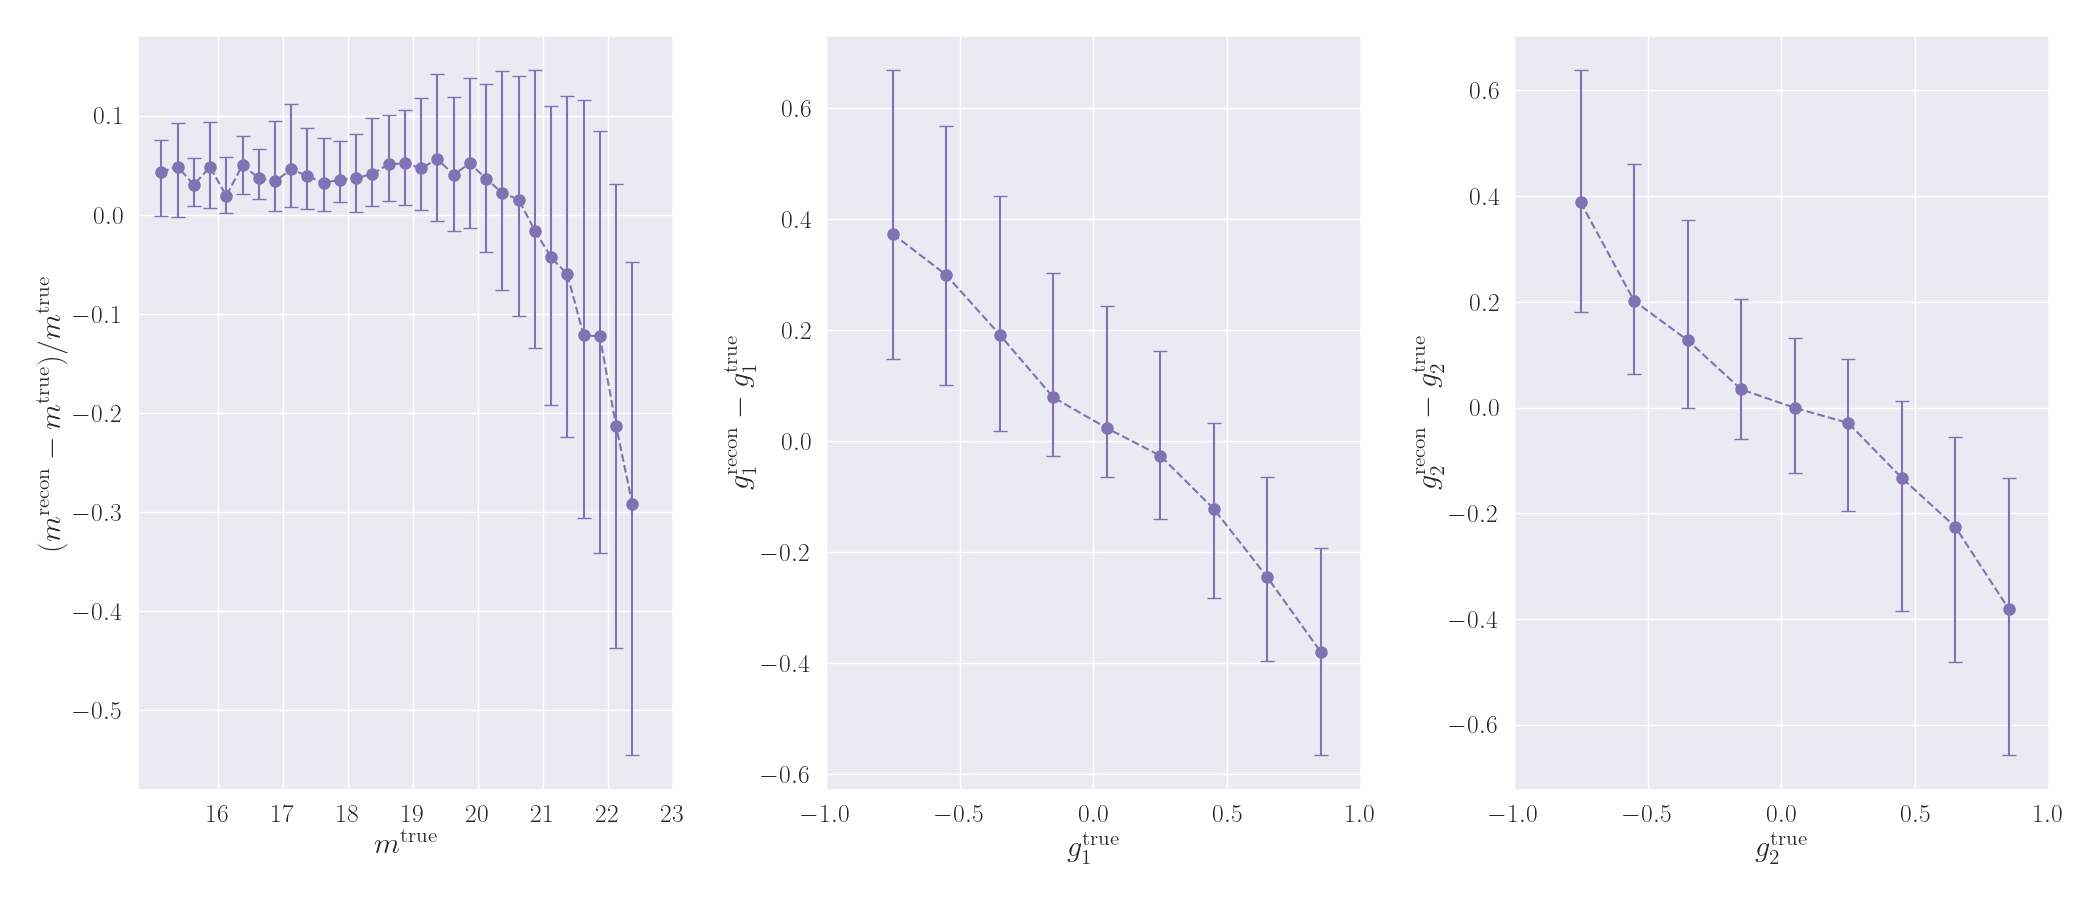
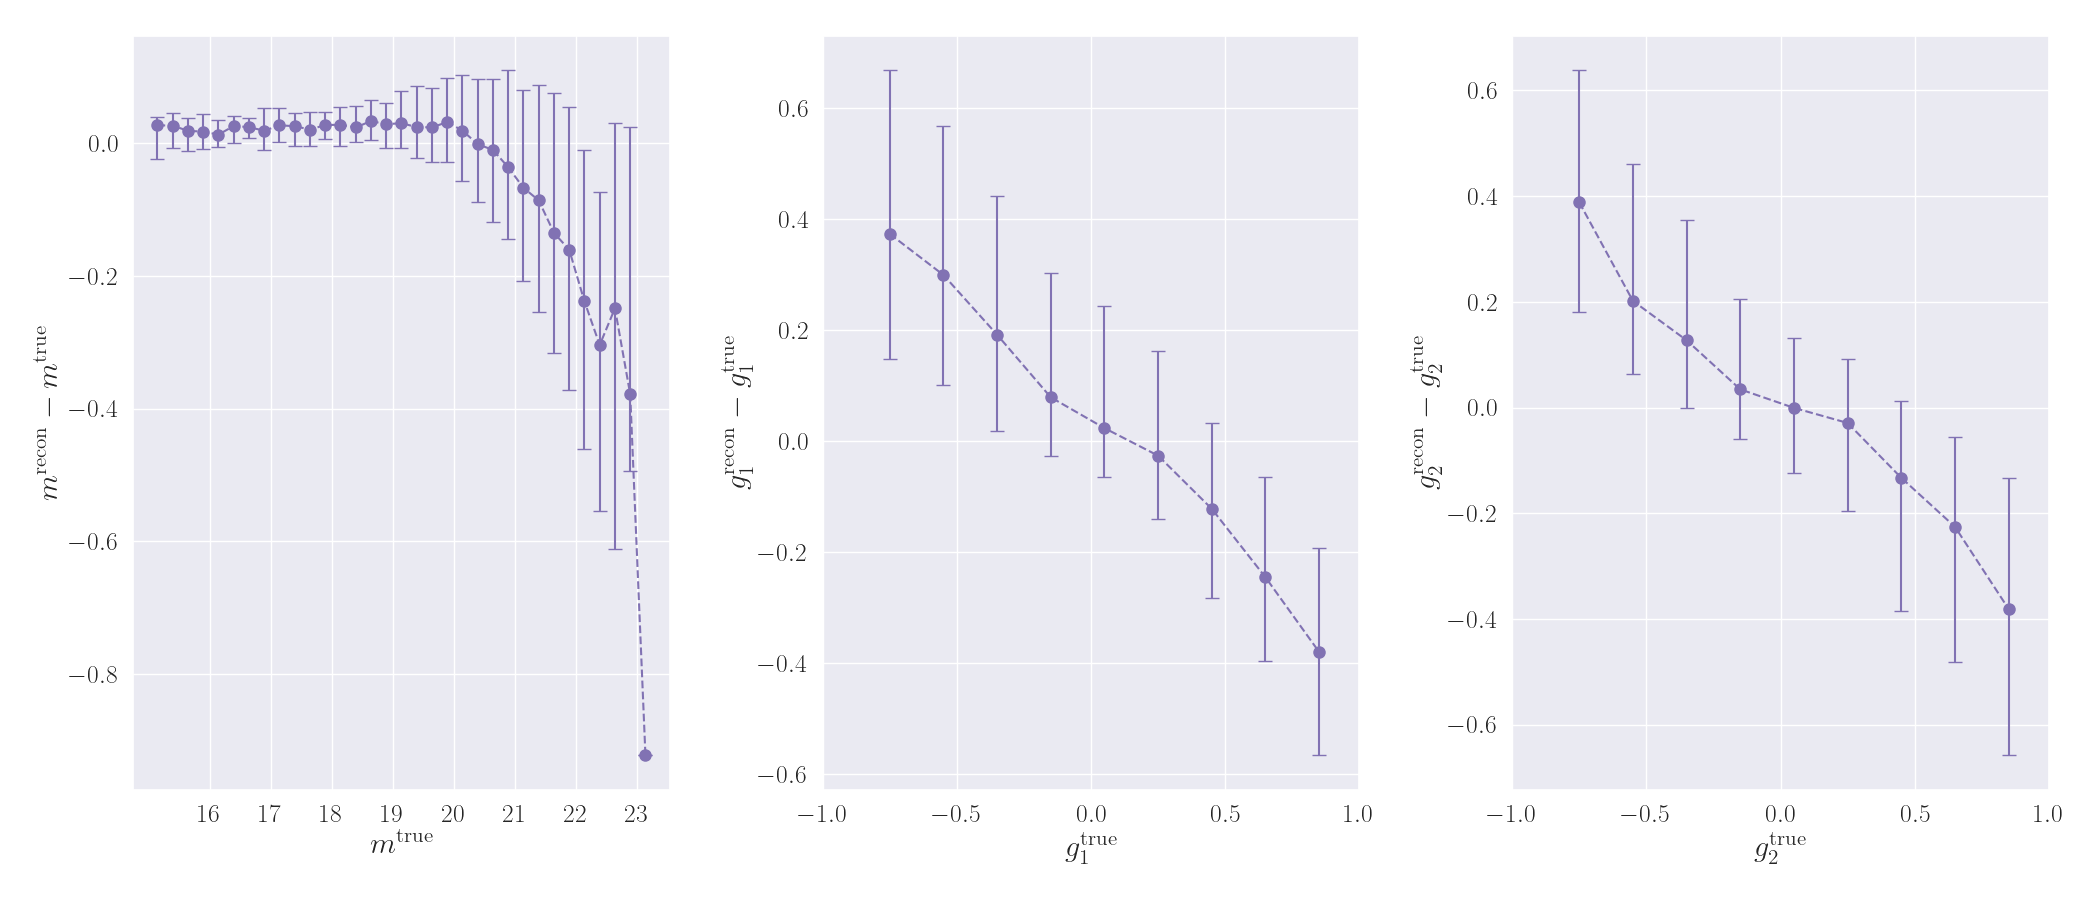
update figures after not using true galaxy params

diff --git a/case_studies/sdss_galaxies/plots.py b/case_studies/sdss_galaxies/plots.py
@@ -389,7 +389,7 @@ class AEReconstructionFigures(BlissFigures):
             xlims=(x.min(), x.max()),
             delta=0.25,
             xlabel=r"\rm $m^{\rm true}$",
-            ylabel=r"\rm $(m^{\rm recon} - m^{\rm true}) / m^{\rm true}$",
+            ylabel=r"\rm $m^{\rm recon} - m^{\rm true}$",
             xticks=[16, 17, 18, 19, 20, 21, 22, 23],
         )
 
